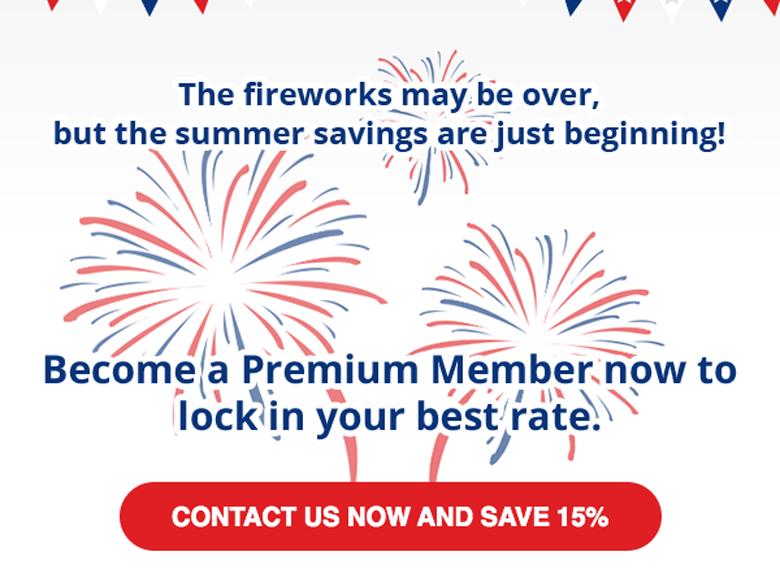
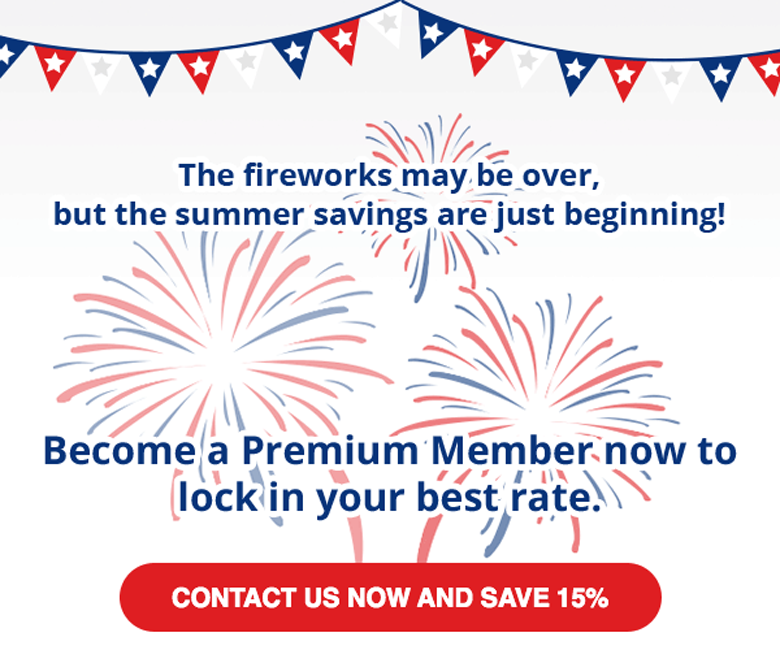
:bug: Fix outlook bug

diff --git a/dist/fireworks.html b/dist/fireworks.html
@@ -139,18 +139,13 @@ a[href^=tel],
     <td style="text-align: left;" align="left">
         <table border="0" cellpadding="0" cellspacing="0" align="center"  style="table-layout: fixed; width: 600px; border-collapse: collapse !important; overflow: hidden; max-width: 600px !important; background-color: #ffffff;" width="600" bgcolor="#ffffff">
             <tr>
-                <td  style="text-align: left; padding: 0; background-color: #f4f4f4;" align="left" bgcolor="#f4f4f4">
-                    <img alt="[placeholder]" src="https://justatic.com/v/1/emails/images/lawyer-directory/2017/07/fireworks-banner-01.png" tabindex="0" border="0"  style="display: block; width: 600px; height: 63.0769230769px; margin: 0 auto; Margin: 0 auto;" width="600" height="63.0769230769">
-                </td>
-            </tr>
-            <tr>
-                <td  background="https://justatic.com/v/1/emails/images/lawyer-directory/2017/07/fireworks-background-01.png" style="text-align: left; width: 600px; height: 437.692307692px; padding: 0; background: url('https://justatic.com/v/1/emails/images/lawyer-directory/2017/07/fireworks-background-01.png'); background-color: #fcfcfc; background-repeat: no-repeat !important; background-size: 600px 437.692307692px; vertical-align: top;" width="600" height="437.692307692" align="left" bgcolor="#fcfcfc" valign="top">
-                    <!--[if mso]><v:rect xmlns:v="urn:schemas-microsoft-com:vml" fill="true" stroke="false" style="width:600px; height:438px;border:0;outline:0;"><v:fill type="tile" src="https://justatic.com/v/1/emails/images/lawyer-directory/2017/07/fireworks-background-01.png" color="#fcfcfc" /><v:textbox inset="0,0,0,0"><![endif]-->
+                <td  background="https://justatic.com/v/2/emails/images/lawyer-directory/2017/07/fireworks-background-01.png" style="text-align: left; width: 600px; height: 500px; padding: 0; background: url('https://justatic.com/v/2/emails/images/lawyer-directory/2017/07/fireworks-background-01.png'); background-color: #fcfcfc; background-repeat: no-repeat !important; background-size: 600px 500px; vertical-align: top;" width="600" height="500" align="left" bgcolor="#fcfcfc" valign="top">
+                    <!--[if mso]><v:rect xmlns:v="urn:schemas-microsoft-com:vml" fill="true" stroke="false" style="width:600px; height:500px;border:0;outline:0;"><v:fill type="tile" src="https://justatic.com/v/2/emails/images/lawyer-directory/2017/07/fireworks-background-01.png" color="#fcfcfc" /><v:textbox inset="0,0,0,0"><![endif]-->
                     <a href="#" target="_blank" style="color: #06357a; text-decoration: none; cursor: pointer;">
                         <table border="0" cellspacing="0" cellpadding="0" align="center"  style="table-layout: fixed; border-collapse: collapse; width: 600px;" width="600">
                             <tr>
-                                <td  style="padding: 5px 53px 0 28px; text-align: center; width: 100%;" width="100%" align="center">
-                                    <img alt="[placeholder]" src="https://justatic.com/v/1/emails/images/lawyer-directory/2017/07/fireworks-main-image-animation-01.gif" tabindex="0" border="0"  style="display: block; width: 519px; height: 433px; margin: 0 auto; Margin: 0 auto;" width="519" height="433">
+                                <td  style="padding: 0; text-align: center; width: 100%;" width="100%" align="center">
+                                    <img alt="[placeholder]" src="https://justatic.com/v/2/emails/images/lawyer-directory/2017/07/fireworks-main-image-animation-01.gif" tabindex="0" border="0"  style="display: block; width: 600px; height: 500px; margin: 0 auto; Margin: 0 auto;" width="600" height="500">
                                 </td>
                             </tr>
                         </table>

diff --git a/src/css/scss/partials/components/_fireworks.scss b/src/css/scss/partials/components/_fireworks.scss
@@ -4,7 +4,6 @@
 // ----------------------------------------------------------------------------------------------------------
 
 $fireworks-background--dimensions: image-dimensions('/src/img/fireworks-background-01.png');
-$fireworks-banner-01--dimensions: image-dimensions('/src/img/fireworks-banner-01.png');
 $fireworks-main-image-01--dimensions: image-dimensions('/src/img/fireworks-main-image-animation-01.gif');
     
 $fireworks-background--width: (nth($fireworks-background--dimensions, 1) / 1.3);
@@ -47,20 +46,8 @@ $fireworks-background--height: (nth($fireworks-background--dimensions, 2) / 1.3)
         }
     }
 
-    .top-banner {
-        padding: 0;
-        background-color: #f4f4f4;
-
-        .image {
-            width: nth($fireworks-banner-01--dimensions, 1) / 1.3;
-            height: nth($fireworks-banner-01--dimensions, 2) / 1.3;
-            margin: 0 auto;
-            Margin: 0 auto;
-        }
-    }
-
     .animation {
-        padding: 5px 53px 0 28px;
+        padding: 0;
 
         .image-animation {
             width: nth($fireworks-main-image-01--dimensions, 1);

diff --git a/src/css/main.css b/src/css/main.css
@@ -248,12 +248,12 @@ body {
 
 .fireworks .dvbg {
   width: 600px;
-  height: 437.692307692px;
+  height: 500px;
   padding: 0;
   background: url("../img/fireworks-background-01.png");
   background-color: #fcfcfc;
   background-repeat: no-repeat !important;
-  background-size: 600px 437.692307692px;
+  background-size: 600px 500px;
   vertical-align: top;
 }
 
@@ -272,25 +272,13 @@ body {
   text-align: center;
 }
 
-.fireworks .top-banner {
-  padding: 0;
-  background-color: #f4f4f4;
-}
-
-.fireworks .top-banner .image {
-  width: 600px;
-  height: 63.0769230769px;
-  margin: 0 auto;
-  Margin: 0 auto;
-}
-
 .fireworks .animation {
-  padding: 5px 53px 0 28px;
+  padding: 0;
 }
 
 .fireworks .animation .image-animation {
-  width: 519px;
-  height: 433px;
+  width: 600px;
+  height: 500px;
   margin: 0 auto;
   Margin: 0 auto;
 }
